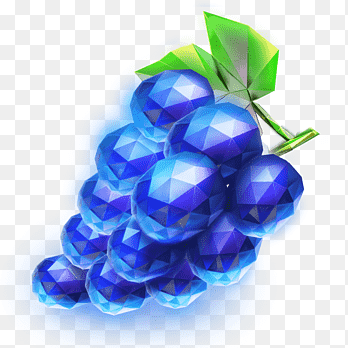
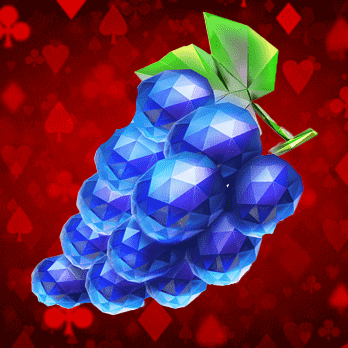
uvas

diff --git a/script.js b/script.js
@@ -2,7 +2,7 @@
 const listaCabezas = [
   "../base-bestiario/assets/img/cabeza1.jpeg",
   "../base-bestiario/assets/img/cabeza2.avif",
-  "../base-bestiario/assets/img/cabeza3.png",
+  "../base-bestiario/assets/img/cabezauva3.png",
 ];
 const listaTroncos = [
  "../base-bestiario/assets/img/tronco1.jpeg",
